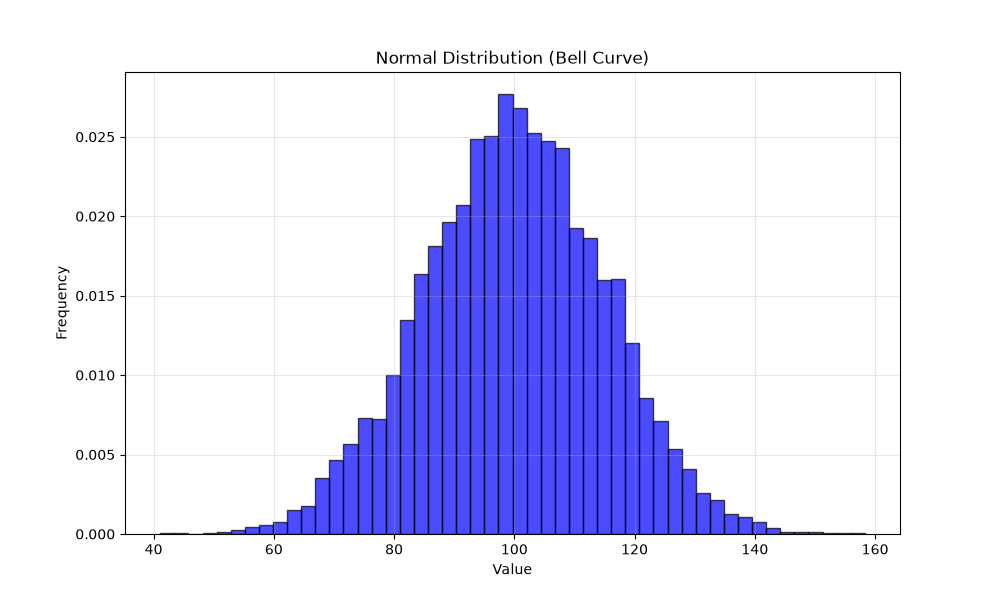
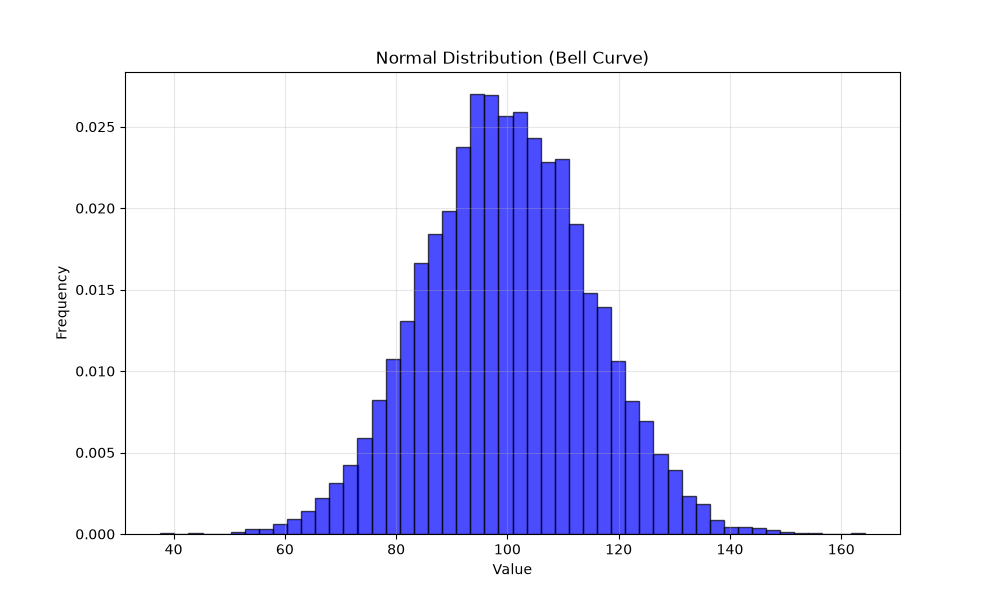
challenge number one. Statistics.

diff --git a/data_science/lesson_4_statistics/lesson_1_distributions.py b/data_science/lesson_4_statistics/lesson_1_distributions.py
@@ -46,7 +46,7 @@ print(f"Result of mean with numpy: {result_numpy}")
 
 
 # NUMBER : 2
-print("What is the median?")
+print("\nWhat is the median?")
 # Median (Middle Value)
 # Sort data, take middle value
 data = [70, 80, 90, 100, 110]
@@ -56,6 +56,34 @@ print(f"Here middle of all data: {median_result}")
 
 
 # NUMBER : 3
+# Mode (Most Frequent)
+# The value that appears most offen
+data = [70, 80, 80, 80, 80, 90, 100, 110]
+# Mode  = 80 - (appears 3 times)
+from scipy import stats
+result_of_mode = stats.mode(data, keepdims=True)[0][0]
+print(f"Result of mode: {result_of_mode}") # 80 
+
+# NUMBER : 4
+# Standard Deviation (Spread)
+# How far values spread from the mean
+data = [70, 80, 90, 100, 110]
+result_of_std = np.std(data) # = 14.14
+print(result_of_std) # 14.142135623730951 - it mean that std function has round(2)
+# Higher std = more spread out
+# Lower std = tighter around mean
+
+# NUMBER : 6
+# Variance
+# Standard Deviation squared
+result_of_variance = np.var(data) # = std ** 2
+
+print("What does the bell curve look like?")
+print("Bell curve look like distribution of data...")
+
+
+
+
 
 
 
